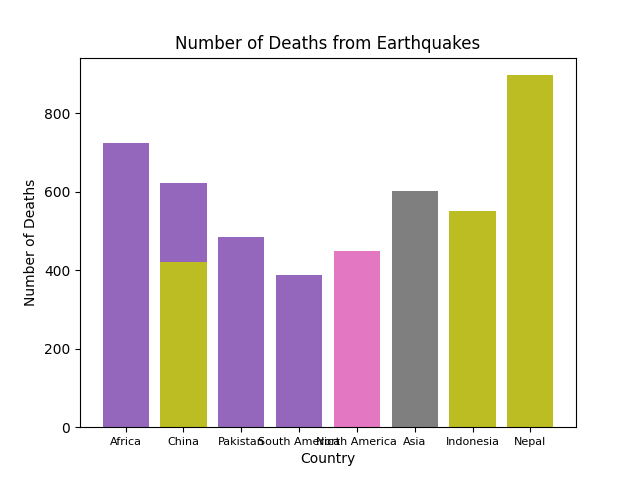
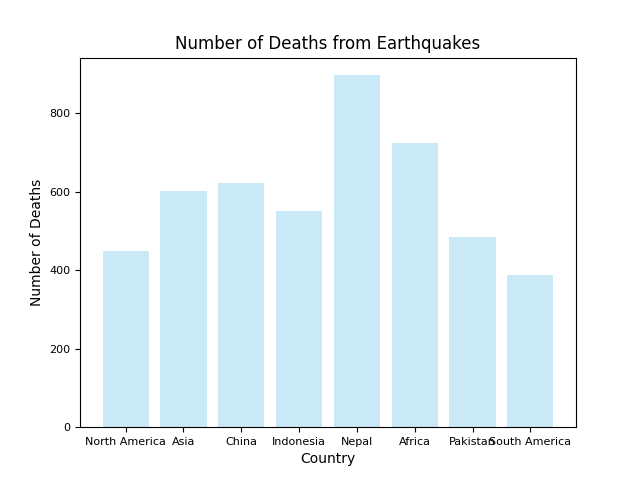
updated graph in django

diff --git a/combine/views.py b/combine/views.py
@@ -30,11 +30,12 @@ class Api(TemplateView):
         df = df[df['Flood']>300]
         x = df['Country']
         y = df['Flood']
-        plt.bar(x,y)
+        plt.bar(x,y, color = '#c9e9f6')
         plt.title('Number of Deaths from Floods')
         plt.xlabel('Country')
         plt.ylabel('Number of Deaths')
         plt.xticks(fontsize=8)
+        plt.yticks(fontsize=8)
         response = HttpResponse(content_type="image/jpeg")
         plt.savefig('media/Floods.png',format="png")
         return HttpResponse('media/Floods.png')
@@ -48,11 +49,12 @@ class Api(TemplateView):
         df_Wildfire = df_Wildfire[df_Wildfire['Wildfire']>100]
         x = df_Wildfire['Country']
         y = df_Wildfire['Wildfire']
-        plt.bar(x,y)
+        plt.bar(x,y, color = '#c9e9f6')
         plt.title('Number of Deaths from Wildfire')
         plt.xlabel('Country')
         plt.ylabel('Number of Deaths')
         plt.xticks(fontsize=8)
+        plt.yticks(fontsize=8)
         response = HttpResponse(content_type="image/jpeg")
         plt.savefig('media/Wildfire.png',format="png")
         return HttpResponse('media/Wildfire.png')
@@ -66,11 +68,12 @@ class Api(TemplateView):
         df_Storms = df_Storms[df_Storms['Storms'] > 300]
         x = df_Storms['Country']
         y = df_Storms['Storms']
-        plt.bar(x,y)
+        plt.bar(x,y, color = '#c9e9f6')
         plt.title('Number of Deaths from Storms')
         plt.xlabel('Country')
         plt.ylabel('Number of Deaths')
         plt.xticks(fontsize=8)
+        plt.yticks(fontsize=8)
         response = HttpResponse(content_type="image/jpeg")
         plt.savefig('media/Storms.png',format="png")
         return HttpResponse('media/Storms.png')
@@ -84,11 +87,12 @@ class Api(TemplateView):
         df_Landslides = df_Landslides[df_Landslides['Landslides'] > 400]
         x = df_Landslides['Country']
         y = df_Landslides['Landslides']
-        plt.bar(x,y)
+        plt.bar(x,y, color = '#c9e9f6')
         plt.title('Number of Deaths from Landslides')
         plt.xlabel('Country')
         plt.ylabel('Number of Deaths')
         plt.xticks(fontsize=8)
+        plt.yticks(fontsize=8)
         response = HttpResponse(content_type="image/jpeg")
         plt.savefig('media/Landslides.png',format="png")
         return HttpResponse('media/Landslides.png')
@@ -102,11 +106,12 @@ class Api(TemplateView):
         df_Earthquakes = df_Earthquakes[df_Earthquakes['Earthquakes'] > 400]
         x = df_Earthquakes['Country']
         y = df_Earthquakes['Earthquakes']
-        plt.bar(x,y, color = 'blue')
+        plt.bar(x,y, color = '#c9e9f6')
         plt.title('Number of Deaths from Earthquakes')
         plt.xlabel('Country')
         plt.ylabel('Number of Deaths')
         plt.xticks(fontsize=8)
+        plt.yticks(fontsize=8)
         response = HttpResponse(content_type="image/jpeg")
         plt.savefig('media/Earthquakes.png',format="png")
         return HttpResponse('media/Earthquakes.png')
